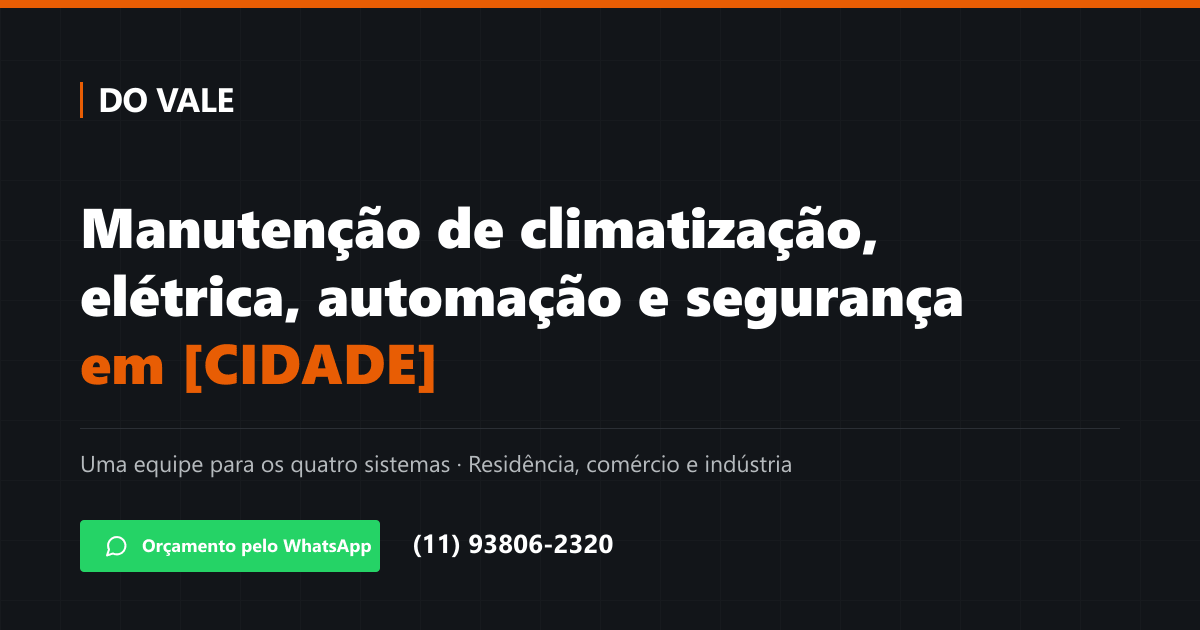
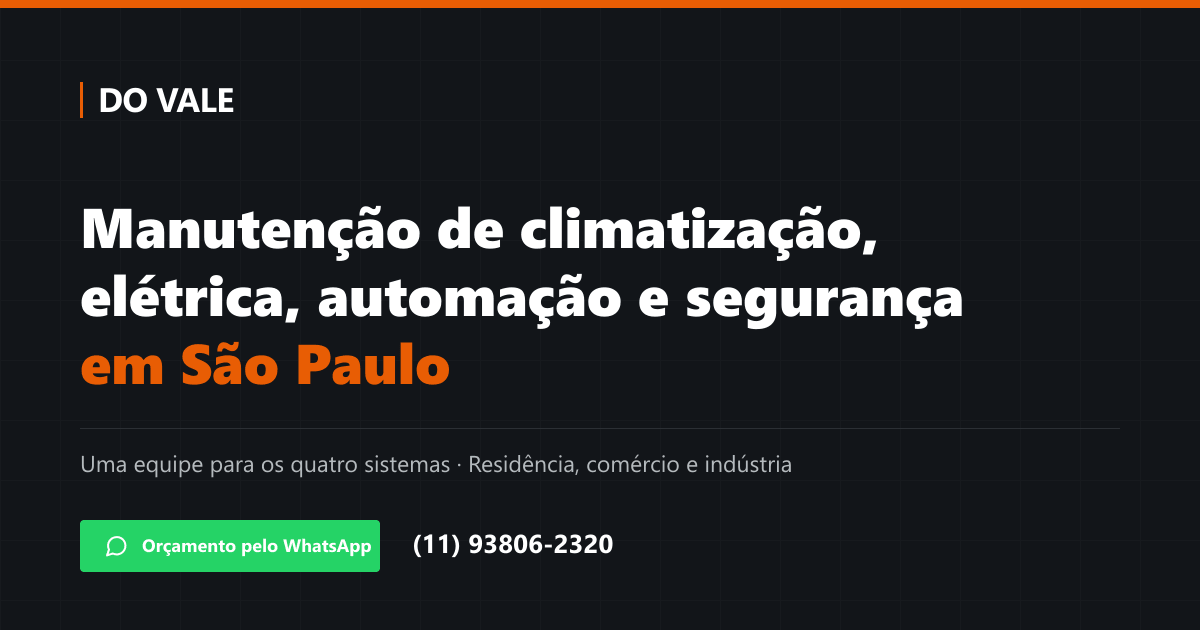
Define Sao Paulo como cidade-base
Substitui o marcador [CIDADE] no title, na meta description, no og:title,
no twitter:title, no H1 e na imagem de compartilhamento.

No JSON-LD, areaServed passa a declarar Sao Paulo com regiao e pais.
A segunda entrada continua como CONFIRMAR, para as demais cidades
atendidas.

Changed region(s): [[0.1542, 0.5429, 0.4008, 0.6333]]

diff --git a/index.html b/index.html
@@ -4,9 +4,8 @@
   <meta charset="UTF-8" />
   <meta name="viewport" content="width=device-width, initial-scale=1.0" />
 
-  <!-- CONFIRMAR: trocar [CIDADE] pela cidade-base real da empresa em todo o site -->
-  <title>Manutenção de ar-condicionado, elétrica e segurança em [CIDADE] | Do Vale</title>
-  <meta name="description" content="Do Vale: manutenção e instalação de climatização, elétrica, automação e segurança eletrônica para residências, comércio e indústria em [CIDADE]. Orçamento pelo WhatsApp (11) 93806-2320." />
+  <title>Manutenção de ar-condicionado, elétrica e segurança em São Paulo | Do Vale</title>
+  <meta name="description" content="Do Vale: manutenção e instalação de climatização, elétrica, automação e segurança eletrônica para residências, comércio e indústria em São Paulo. Orçamento pelo WhatsApp (11) 93806-2320." />
   <meta name="theme-color" content="#1c2025" />
 
   <!-- ==========================================================
@@ -22,7 +21,7 @@
   <meta property="og:locale" content="pt_BR" />
   <meta property="og:type" content="website" />
   <meta property="og:url" content="https://empresa-dovale.vercel.app/" />
-  <meta property="og:title" content="Manutenção de ar-condicionado, elétrica e segurança em [CIDADE] | Do Vale" />
+  <meta property="og:title" content="Manutenção de ar-condicionado, elétrica e segurança em São Paulo | Do Vale" />
   <meta property="og:description" content="Climatização, elétrica, automação e segurança eletrônica com uma equipe só. Residência, comércio e indústria. Orçamento pelo WhatsApp (11) 93806-2320." />
   <meta property="og:image" content="https://empresa-dovale.vercel.app/og-image.png" />
   <meta property="og:image:width" content="1200" />
@@ -30,7 +29,7 @@
   <meta property="og:image:alt" content="Do Vale — manutenção de climatização, elétrica, automação e segurança eletrônica." />
 
   <meta name="twitter:card" content="summary_large_image" />
-  <meta name="twitter:title" content="Manutenção de ar-condicionado, elétrica e segurança em [CIDADE] | Do Vale" />
+  <meta name="twitter:title" content="Manutenção de ar-condicionado, elétrica e segurança em São Paulo | Do Vale" />
   <meta name="twitter:description" content="Climatização, elétrica, automação e segurança eletrônica com uma equipe só." />
   <meta name="twitter:image" content="https://empresa-dovale.vercel.app/og-image.png" />
 
@@ -55,7 +54,7 @@
 
   <!-- ==========================================================
        DADOS ESTRUTURADOS (Schema.org)
-       CONFIRMAR: cidade, bairros, horário, CNPJ e razão social
+       CONFIRMAR: bairros, horário, CNPJ e razão social
        precisam ser preenchidos antes de publicar de verdade.
        ========================================================== -->
   <script type="application/ld+json">
@@ -70,8 +69,8 @@
     "image": "https://empresa-dovale.vercel.app/og-image.png",
     "telephone": "+55-11-93806-2320",
     "areaServed": [
-      { "@type": "City", "name": "[CONFIRMAR: cidade 1]" },
-      { "@type": "City", "name": "[CONFIRMAR: cidade 2]" }
+      { "@type": "City", "name": "São Paulo", "addressRegion": "SP", "addressCountry": "BR" },
+      { "@type": "City", "name": "[CONFIRMAR: outras cidades atendidas]" }
     ],
     "openingHoursSpecification": [
       {
@@ -203,10 +202,9 @@
             Climatização · Elétrica · Automação · Segurança eletrônica
           </p><span class="regua mb-4"></span>
 
-          <!-- CONFIRMAR: trocar [CIDADE] pela cidade-base real -->
           <h1 class="text-3xl sm:text-4xl lg:text-5xl font-black leading-[1.1] mb-5">
             Manutenção de climatização, elétrica, automação e segurança em
-            <span class="text-laranja-500">[CIDADE]</span>
+            <span class="text-laranja-500">São Paulo</span>
           </h1>
 
           <p class="text-lg text-grafite-300 leading-relaxed max-w-xl mb-7">

diff --git a/ENTREGA.md b/ENTREGA.md
@@ -45,7 +45,7 @@ Nada foi inventado.
 7. Instagram
 
 ### Atendimento
-8. Cidade-base (aparece no título, no H1 e no Google — hoje está `[CIDADE]`)
+8. ~~Cidade-base~~ — definida: **São Paulo**
 9. Lista de bairros e cidades atendidos, por extenso
 10. Taxa de deslocamento fora da área
 11. Horário de atendimento real
@@ -136,8 +136,8 @@ Aparece em 4 formatos. Usar `Ctrl + H` (substituir) para cada um:
 
 ## Antes de apresentar ao cliente
 
-- [ ] Confirmar a cidade e trocar `[CIDADE]` (aparece no título, H1 e miniatura)
-- [ ] Rodar `npm run imagens` depois de trocar a cidade
-- [ ] Conferir se o nome é **Do Vale** ou **Do Valle**
+- [x] Cidade definida: São Paulo (título, H1, miniatura e dados do Google)
+- [x] Nome confirmado: **Do Vale**
+- [ ] Colocar os 5 arquivos de foto na pasta `img/`
 - [ ] Testar o formulário pelo celular
 - [ ] Mandar o link no WhatsApp e ver se a miniatura carrega
